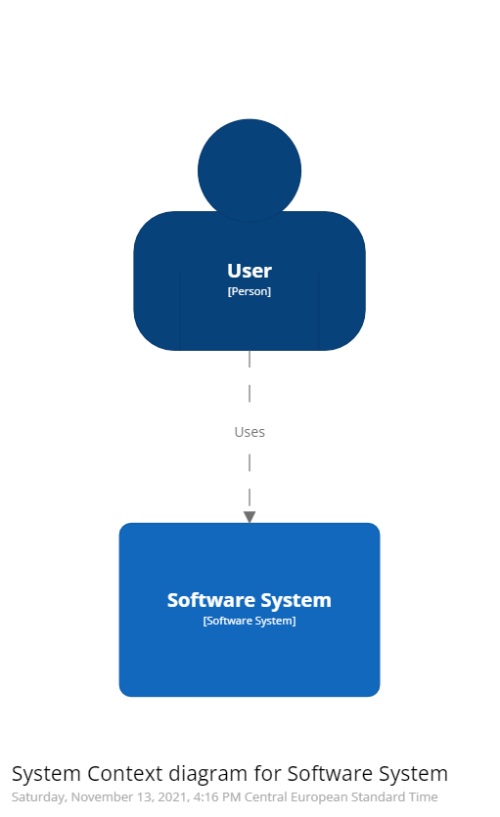
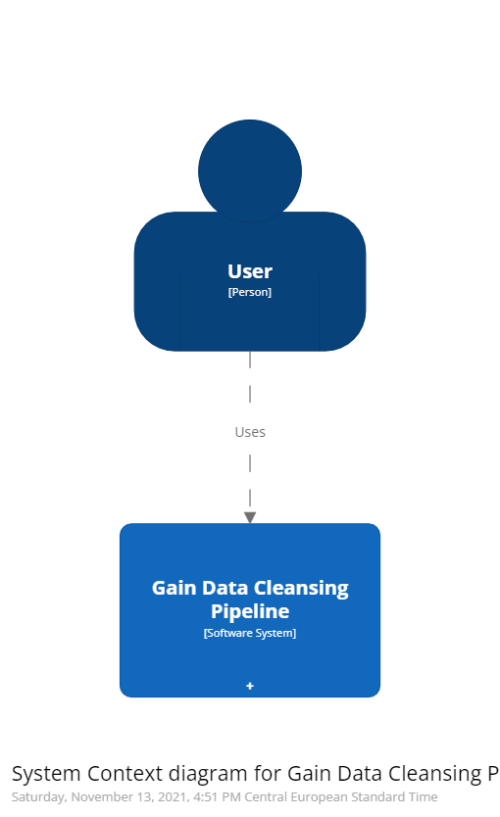
add data sources

diff --git a/docs/ReadMe.md b/docs/ReadMe.md
@@ -1,0 +1,5 @@
+# Vision for new Gain Data Cleansing pipeline using GraphQL
+
+This is a test of the Structurizr documentation tool.
+
+![image not available](embed:Diagram1)
